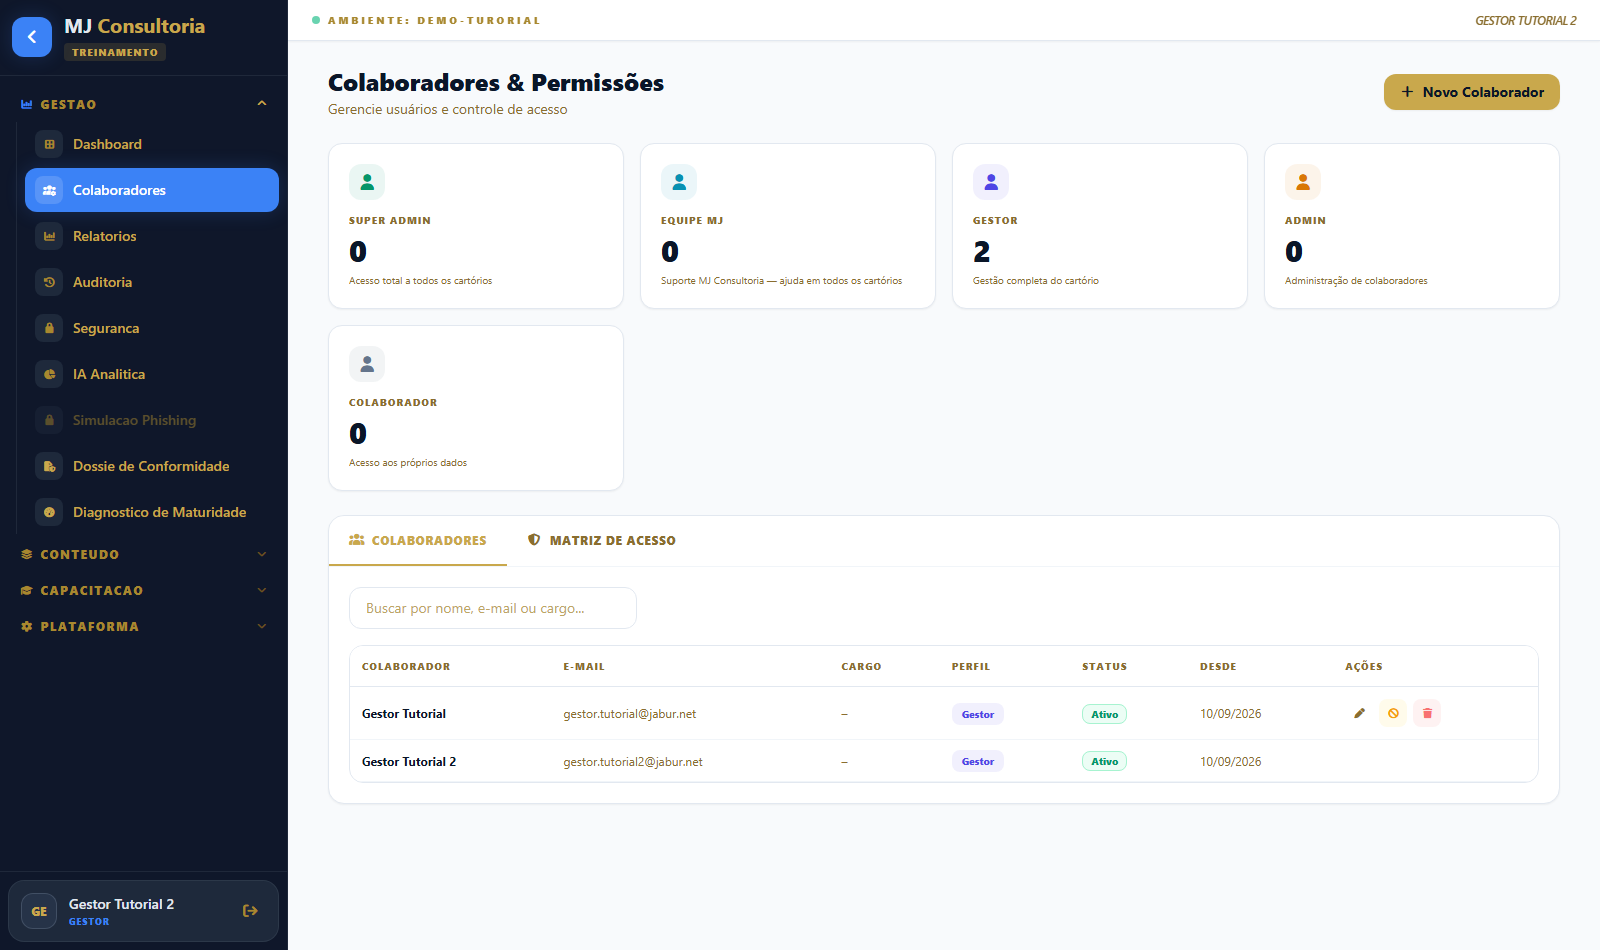
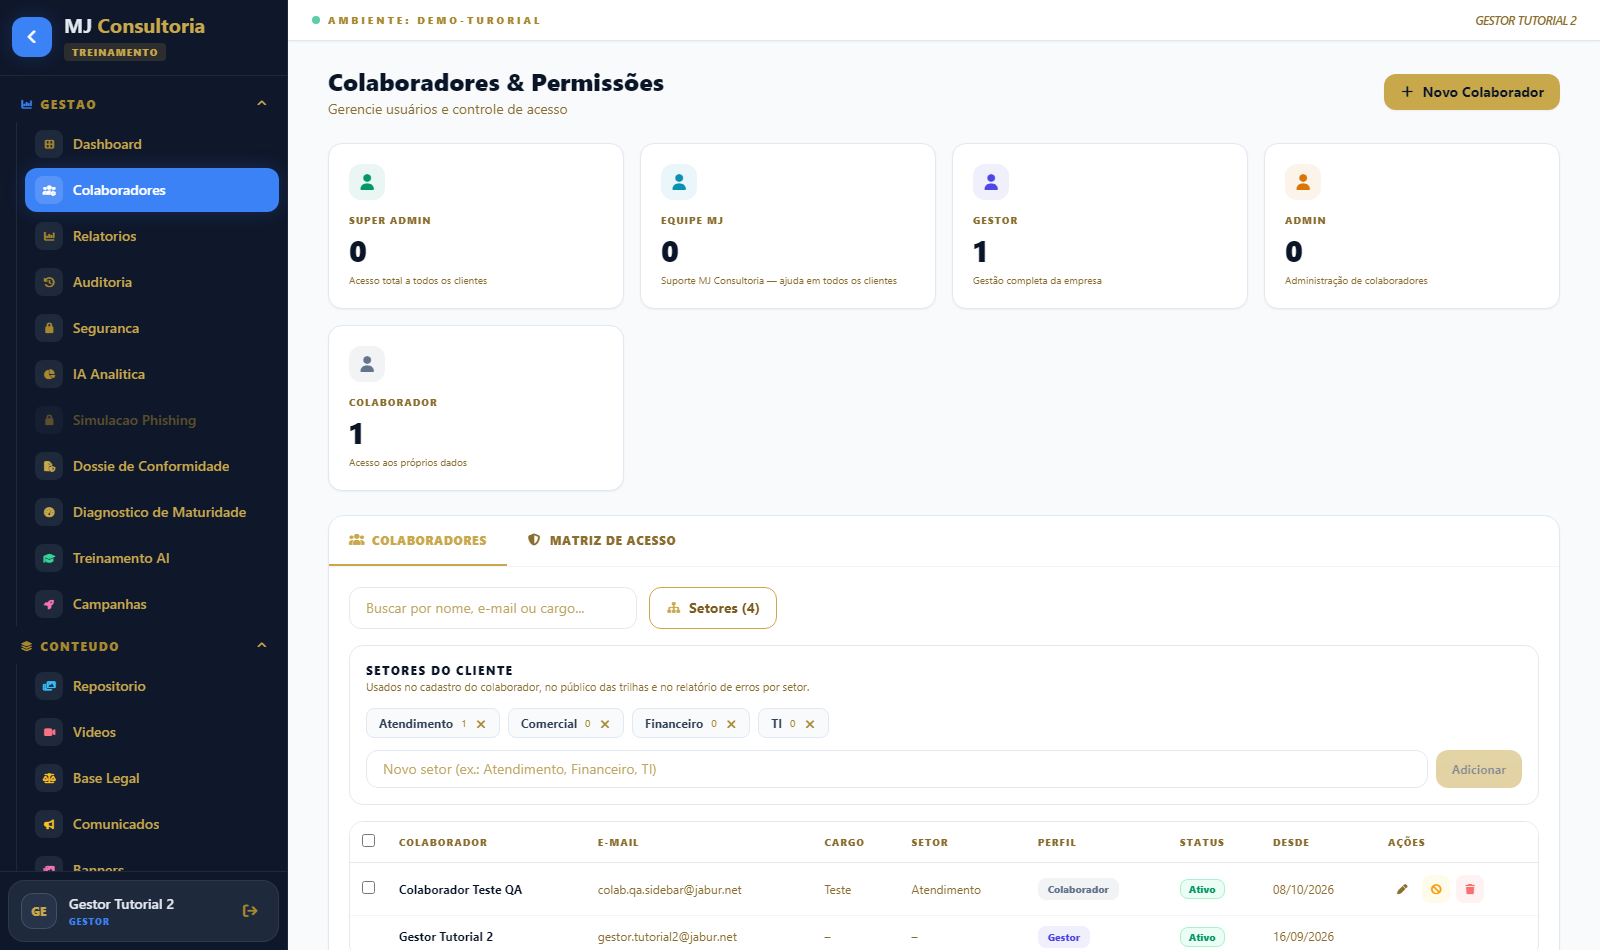
docs(tutorial): textos e capturas que nao parecem exclusivos de cartorio + novidades
- Textos: abertura da Integra-Academy para empresas de qualquer segmento e cartorios; Dashboard
  com os indicadores atuais; Colaboradores (setores, edicao em lote, esqueci a senha);
  Relatorios (Erros por Assunto/Setor); Trilhas (conteudo liberado pela MJ, assunto e setores,
  material de apoio); Repositorio (videos, podcasts e infograficos, player protegido);
  Comunicados sem amarrar a CNJ.
- Capturas refeitas no cliente de demonstracao configurado como empresa, com conteudo corporativo
  generico (so do demo) e revisadas: sem dados de clientes reais nem referencias a cartorio.

diff --git a/frontend/src/features/Tutorial/TutorialView.tsx b/frontend/src/features/Tutorial/TutorialView.tsx
@@ -20,10 +20,9 @@ const SECTIONS: Section[] = [
   {
     id: 'dashboard', icon: 'fa-border-all', title: 'Dashboard', subtitle: 'Painel operacional do seu cliente', image: '/tutorial/dashboard.png',
     steps: [
-      { title: 'Acessando o Dashboard', desc: 'Clique em "Dashboard" no menu lateral, na seção GESTÃO. Esta tela exibe dados em tempo real exclusivos da sua empresa ou cartório.' },
-      { title: 'KPIs em tempo real', desc: 'Os cards no topo mostram métricas como Documentos na Base, Protocolos Ativos, Treinamentos Concluídos e Ações Registradas. Todos atualizam automaticamente.' },
-      { title: 'Atividade Recente', desc: 'O painel de atividade mostra as últimas ações realizadas na plataforma — tipo de evento, usuário responsável e horário.' },
-      { title: 'Filtros de período', desc: 'Use os botões de período (7, 30, 90 dias) para filtrar o histórico de dados exibido nos gráficos e cards.' },
+      { title: 'Acessando o Dashboard', desc: 'Clique em "Dashboard" no menu lateral, na seção GESTÃO. Esta tela exibe dados em tempo real exclusivos da sua organização — empresa ou cartório —, nunca de outros clientes.' },
+      { title: 'Indicadores em tempo real', desc: 'Os cards no topo mostram colaboradores cadastrados, taxa de aprovação, média geral nas avaliações e certificados emitidos. Todos atualizam automaticamente.' },
+      { title: 'Gráficos da equipe', desc: 'Acompanhe a atividade mensal da equipe, a distribuição de notas, a taxa de aprovação por trilha e a divisão por perfil de acesso. Cada gráfico permite alternar o tipo de visualização.' },
     ]
   },
   {
@@ -41,7 +40,10 @@ const SECTIONS: Section[] = [
   {
     id: 'collaborators', icon: 'fa-users-gear', title: 'Colaboradores', subtitle: 'Gerenciar usuários e permissões', image: '/tutorial/collaborators.png',
     steps: [
-      { title: 'Criando um colaborador', desc: 'Clique em "+ Novo Colaborador", preencha nome, e-mail e selecione o perfil de acesso. O colaborador deverá trocar a senha no primeiro login.' },
+      { title: 'Criando um colaborador', desc: 'Clique em "+ Novo Colaborador", preencha nome completo, e-mail, perfil de acesso, cargo e, se quiser, o setor. O colaborador recebe uma senha provisória e deverá trocá-la no primeiro login.' },
+      { title: 'Setores da organização', desc: 'Opcional: no botão "Setores" cadastre os setores da sua organização (ex.: Atendimento, Financeiro, TI, Comercial). O setor do colaborador permite direcionar trilhas a setores específicos e ver, em Relatórios, onde cada setor mais erra.' },
+      { title: 'Alterações em lote', desc: 'Marque as caixas de seleção na lista (ou a do cabeçalho, para todos os listados) e use a barra que aparece para trocar o cargo ou o setor de vários colaboradores de uma vez. A troca de perfil de acesso em lote é exclusiva da equipe MJ.' },
+      { title: 'Esqueci minha senha', desc: 'Na tela de login, o colaborador digita o e-mail e clica em "Esqueci a senha": recebe em português, pelo e-mail da plataforma, um link válido por 1 hora para criar uma nova senha. Se não encontrar, oriente a verificar a caixa de spam.' },
       { title: 'Perfis disponíveis', desc: 'Super Admin: acesso total. Equipe MJ: staff interno da MJ Consultoria, ajuda em todos os clientes (colaboradores, relatórios, auditoria) sem pertencer a nenhum — só o SUPERADMIN pode criar esse perfil. Gestor: acesso completo ao cliente. Admin: gerenciar colaboradores. Colaborador: acesso aos próprios dados e treinamentos.' },
       { title: 'Editando e desativando', desc: 'Clique no ícone de edição para alterar dados ou perfil. Ao desligar um colaborador, desative imediatamente para revogar o acesso à plataforma.' },
       { title: 'Matriz de Acesso', desc: 'Na aba "Matriz de Acesso", visualize um mapa completo de quais recursos cada perfil pode acessar.' },
@@ -58,6 +60,7 @@ const SECTIONS: Section[] = [
       { title: 'Carga horária por colaborador', desc: 'Na aba "Colaboradores", a coluna "Carga Horária" soma as horas de todas as trilhas concluídas por aquele colaborador (definidas no cadastro de cada trilha), e o cálculo de aproveitamento (testes/aprovações/média) já considera tanto os quizzes de trilha quanto os Exames IA.' },
       { title: 'Ficha de Capacitação individual', desc: 'Na aba "Colaboradores", clique em "Gerar" na coluna Ficha para baixar um PDF individual com trilhas, testes, exames, certificados e a carga horária total daquele colaborador — pronto para apresentar em inspeção.' },
       { title: 'Risco', desc: 'Aba com um índice de risco/maturidade por colaborador, combinando média de notas, atividade recente e validade de certificados — destaca quem precisa de atenção prioritária.' },
+      { title: 'Erros por Assunto/Setor', desc: 'Mostra onde a equipe mais erra: taxa de erro por assunto, por setor e no cruzamento dos dois, os conteúdos com mais erro e as perguntas mais erradas (com a resposta correta). O quadro "Precisam de mais treinamento" aponta as combinações de assunto e setor com 30% de erro ou mais — um roteiro direto para o próximo reforço.' },
       { title: 'Exportação', desc: 'Use "Imprimir" para gerar relatório em PDF ou "Exportar Excel" para análise em planilha. Filtre por período usando o seletor no topo.' },
     ]
   },
@@ -124,11 +127,13 @@ const SECTIONS: Section[] = [
   {
     id: 'trails', icon: 'fa-road', title: 'Trilhas', subtitle: 'Trilhas de aprendizagem por perfil', image: '/tutorial/trails.png',
     steps: [
-      { title: 'O que são Trilhas?', desc: 'Trilhas são sequências de conteúdos organizados por perfil profissional (ex: atendente, analista, supervisor, escrevente) — servem tanto para empresas privadas quanto para cartórios. Cada trilha guia o colaborador do básico ao avançado.' },
+      { title: 'O que são Trilhas?', desc: 'Trilhas são sequências de conteúdos organizados por assunto e por perfil (ex.: atendimento, administrativo, financeiro, liderança) — servem para empresas de qualquer segmento e também para cartórios. Cada trilha guia o colaborador do básico ao avançado.' },
       { title: 'Navegando em uma trilha', desc: 'Selecione uma trilha para ver os módulos disponíveis. Complete os módulos em sequência para liberar o próximo nível.' },
       { title: 'Progresso', desc: 'O progresso de cada trilha é salvo automaticamente. Acompanhe o avanço em "Meu Progresso" no menu CAPACITAÇÃO.' },
       { title: 'Trilhas modelo MJ Consultoria', desc: 'SUPERADMIN pode marcar uma trilha como "modelo oficial MJ Consultoria" (badge dourado) e distribuí-la para todos os clientes ou para uma lista específica.' },
-      { title: 'Trilhas de segurança inclusas', desc: 'Toda a base de clientes — empresas e cartórios — já recebe 4 trilhas oficiais de cyber-higiene: Senhas e Autenticação, Engenharia Social e Phishing, Dispositivos Móveis e Trabalho Remoto, e LGPD no Dia a Dia — disponíveis para todos os perfis.' },
+      { title: 'Conteúdo liberado pela MJ Consultoria', desc: 'A equipe MJ Consultoria define, cliente a cliente, quais trilhas e materiais ficam disponíveis. Só aparece para a sua organização o que já foi liberado para ela — conteúdos exclusivos de outros clientes nunca são exibidos.' },
+      { title: 'Assunto e setores', desc: 'Cada trilha tem um assunto (ex.: Segurança da Informação, LGPD e Privacidade, Ética e Conduta, Integração de Novos Colaboradores) — em "Minhas Trilhas" elas aparecem agrupadas por assunto. Opcionalmente, marque setores: a trilha passa a aparecer só para colaboradores desses setores.' },
+      { title: 'Vídeo, podcast e material de apoio', desc: 'Um módulo pode trazer vídeo ou podcast e, logo abaixo, um material de apoio (como um infográfico do mesmo tema). Ao final de cada módulo há uma avaliação de 7 questões geradas a partir do conteúdo.' },
       { title: 'Instrutor, forma e carga horária', desc: 'Ao criar ou editar uma trilha, preencha o instrutor responsável, a forma de treinamento (EAD, presencial ou híbrida) e a carga horária em horas — esses dados alimentam o Resumo de Treinamentos e a carga horária por colaborador em Relatórios.' },
       { title: 'Fonte de conteúdo para Exames', desc: 'O texto dos módulos de cada trilha também é usado como fonte de conteúdo na tela de Exames — não é preciso duplicar o material lá.' },
       { title: 'Visibilidade', desc: 'Toda trilha pode ser publicada para "este cliente", "todos os clientes" ou uma lista de "clientes específicos" escolhida pelo SUPERADMIN.' },
@@ -143,11 +148,12 @@ const SECTIONS: Section[] = [
     ]
   },
   {
-    id: 'repositorio', icon: 'fa-photo-film', title: 'Repositório', subtitle: 'Áudios e PDFs de capacitação', image: '/tutorial/repositorio.png',
+    id: 'repositorio', icon: 'fa-photo-film', title: 'Repositório', subtitle: 'Vídeos, podcasts e infográficos de capacitação', image: '/tutorial/repositorio.png',
     steps: [
-      { title: 'Tipos de conteúdo', desc: 'O repositório centraliza materiais de capacitação: arquivos de áudio, PDFs, apresentações e documentos complementares.' },
-      { title: 'Buscando conteúdo', desc: 'Use a busca para localizar materiais por palavra-chave, tipo de arquivo ou categoria.' },
-      { title: 'Materiais obrigatórios', desc: 'Conteúdos marcados como obrigatórios aparecem destacados. O gestor pode definir quais materiais são de leitura/visualização obrigatória.' },
+      { title: 'Tipos de conteúdo', desc: 'O repositório centraliza os materiais de capacitação da sua organização: vídeos, podcasts (áudios) e infográficos, organizados por categoria (Onboarding, Normativo, Técnico, Operacional, Comportamental).' },
+      { title: 'Reprodução protegida', desc: 'Os materiais abrem no player da própria plataforma, sem expor o link do arquivo e sem botão de download.' },
+      { title: 'Buscando conteúdo', desc: 'Use a busca e os filtros por tipo (vídeo, áudio, infográfico) e por categoria para localizar materiais.' },
+      { title: 'Conclusão conta para a prova', desc: 'Um conteúdo só conta como visto quando fica aberto pelo tempo de duração cadastrado — é isso que libera a avaliação correspondente.' },
     ]
   },
   {
@@ -162,7 +168,7 @@ const SECTIONS: Section[] = [
     steps: [
       { title: 'Publicando um comunicado', desc: 'Defina título, mensagem e prioridade (informativo, normal, urgente). Fixe no topo do mural quando necessário.' },
       { title: 'Aceite formal (opcional)', desc: 'Marque "Exigir confirmação formal de leitura" para comunicados críticos — o colaborador precisa clicar em "Li e concordo" antes de o comunicado ser considerado lido, gerando evidência com nome, e-mail e data/hora.' },
-      { title: 'Acompanhando confirmações', desc: 'No modo Gestão, veja quantos colaboradores já confirmaram a leitura de cada comunicado com aceite obrigatório — útil para dossiês de auditoria CNJ.' },
+      { title: 'Acompanhando confirmações', desc: 'No modo Gestão, veja quantos colaboradores já confirmaram a leitura de cada comunicado com aceite obrigatório — útil como evidência em auditorias, LGPD e, para cartórios, inspeções do CNJ.' },
       { title: 'Notificação por e-mail é opcional', desc: 'Por padrão, o comunicado fica só no mural — marque "Notificar colaboradores por e-mail" apenas para avisos que realmente precisam interromper a caixa de entrada de todo mundo. Um selo azul "E-mail" identifica quais comunicados dispararam notificação.' },
     ]
   },
@@ -320,7 +326,7 @@ body { font-family: Arial, sans-serif; color:#1e293b; background:white; padding:
 <div class="cover">
   <div class="cover-logo">MJ <span>Consultoria</span></div>
   <div class="cover-title">Manual do Usuário</div>
-  <div class="cover-sub">Plataforma de Treinamento Corporativo</div>
+  <div class="cover-sub">Integra-Academy · Capacitação para empresas e cartórios</div>
   <div class="cover-date">MJ Consultoria &nbsp;·&nbsp; ${new Date().toLocaleDateString('pt-BR', { month: 'long', year: 'numeric' })}</div>
 </div>
 <div class="toc">
@@ -366,7 +372,8 @@ ${allContent}
       <div className="bg-gold/8 border border-gold/25 rounded-2xl p-5 flex items-start gap-3">
         <i className="fa-solid fa-circle-info text-gold text-lg mt-0.5 flex-shrink-0"></i>
         <p className="text-sm text-[#7a5c1e] leading-relaxed">
-          Bem-vindo à Plataforma MJ Consultoria. Selecione um módulo para ver as instruções detalhadas,
+          Bem-vindo à Integra-Academy, a plataforma de capacitação da MJ Consultoria para empresas de qualquer segmento
+          e para cartórios. Selecione um módulo para ver as instruções detalhadas,
           ou clique em <strong className="text-gold">Baixar PDF</strong> para salvar o manual completo.
         </p>
       </div>
